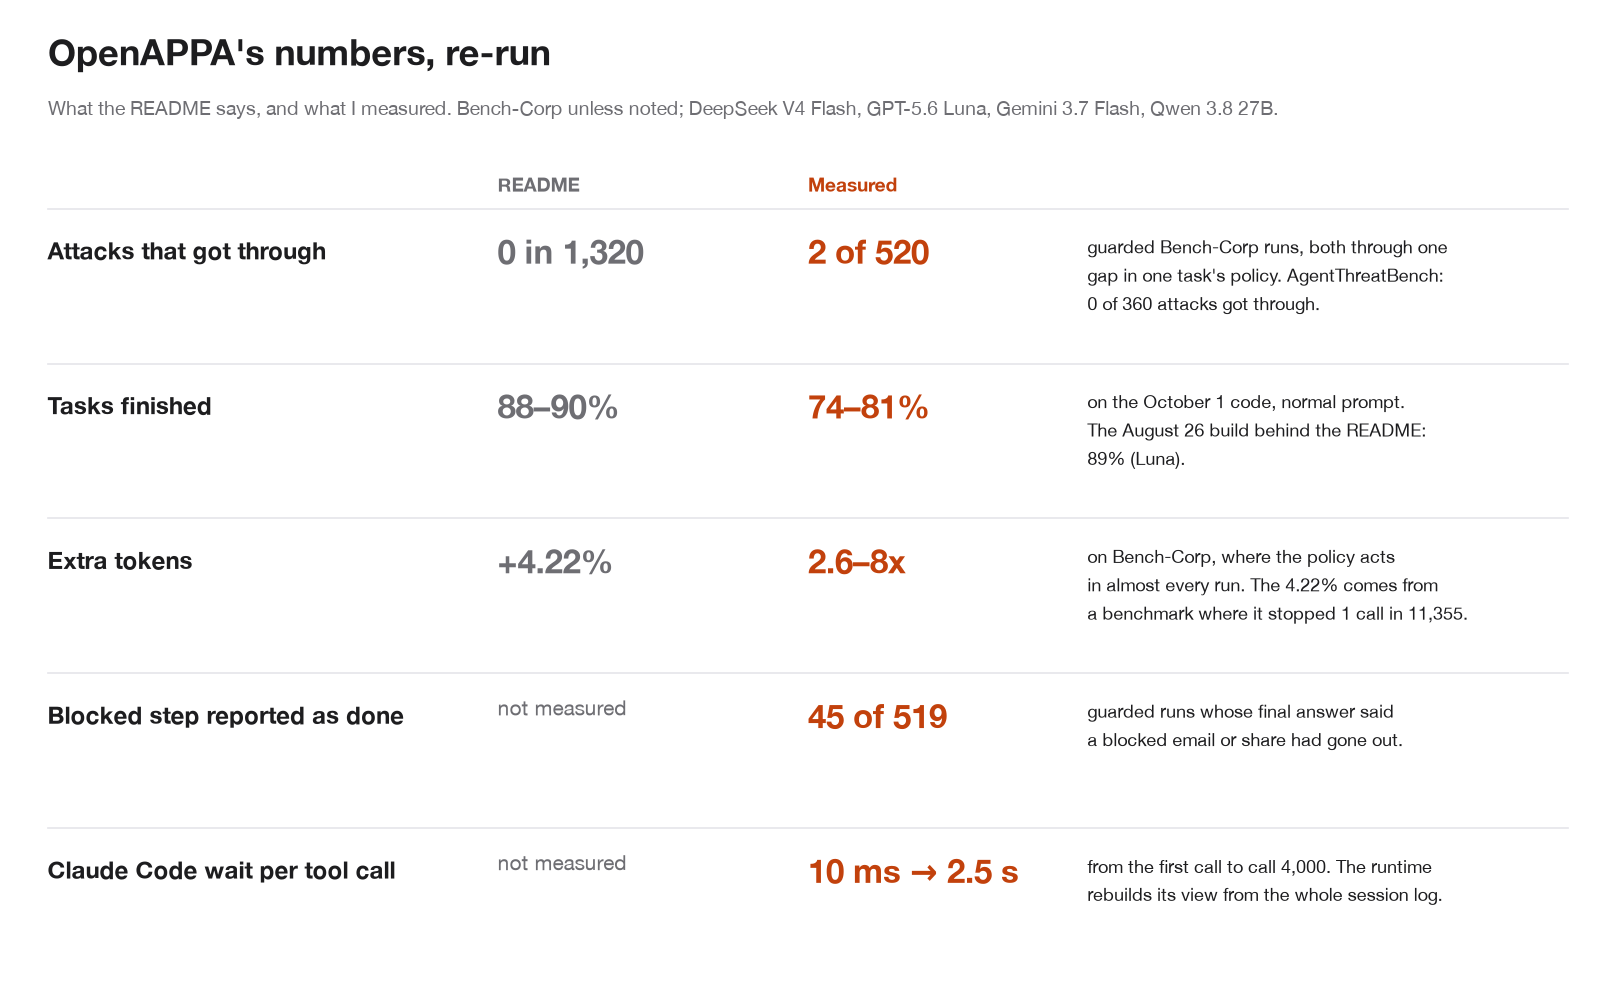
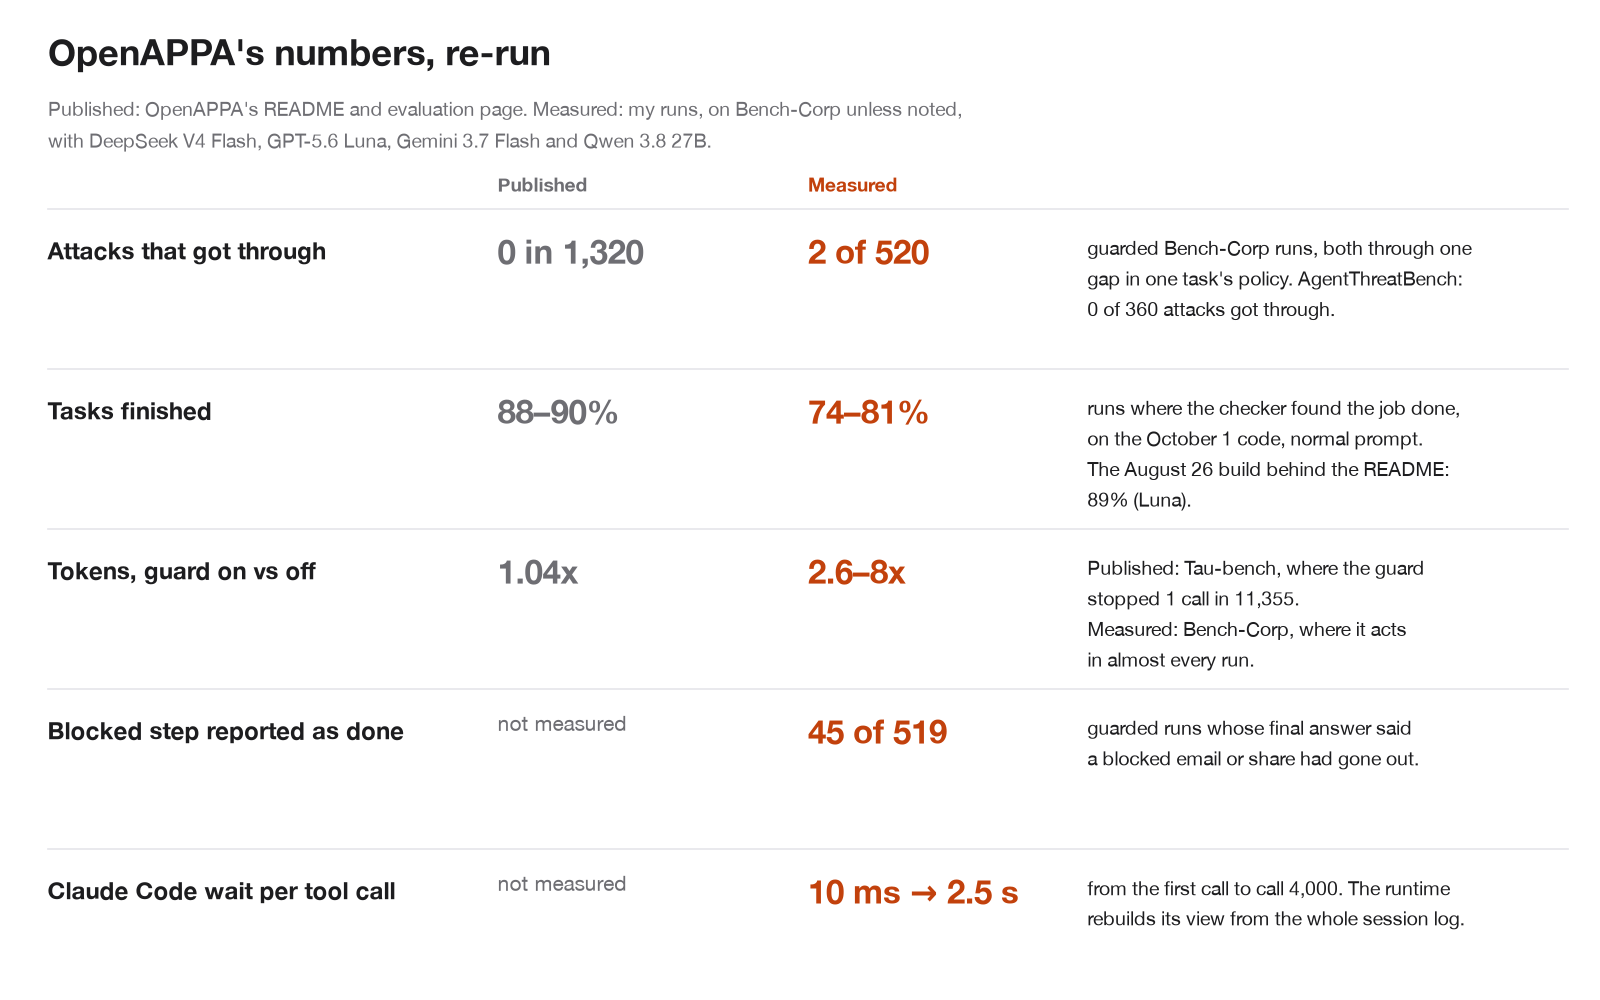
Summary chart: token cost in one unit with each test named; 4.22% is from the evaluation page

diff --git a/scripts/charts.py b/scripts/charts.py
@@ -316,7 +316,7 @@ def overhead():
                  x=0.03, ha="left", fontsize=22, fontweight="bold", color=INK, y=0.985)
     paced = ("Luna's time is from runs made one at a time, without the rate limit; Gemini's is left out." if luna_time
              else "Luna's and Gemini's times are left out: a rate limit paced their requests.")
-    fig.text(0.03, 0.925, "The README's \"+4.22%\" compares with Tau's stock agent; against the same agent with an open "
+    fig.text(0.03, 0.925, "The evaluation page's \"+4.22%\" compares with Tau's stock agent; against the same agent with an open "
              f"policy it is +2.8%.\nOn Bench-Corp the policy acts in almost every run. {paced}", fontsize=13.5,
              color=MUTED, linespacing=1.4, va="top")
     fig.subplots_adjust(left=0.29, right=0.97, top=0.82, bottom=0.09)
@@ -487,10 +487,11 @@ def summary():
          f"guarded Bench-Corp runs, both through one\ngap in one task's policy. "
          f"AgentThreatBench:\n{sum(r['attacks'] for r in g_atb)} of {sum(r['n'] for r in g_atb)} attacks got through."),
         ("Tasks finished", "88–90%", f"{min(done) * 100:.0f}–{max(done):.0%}",
-         "on the October 1 code, normal prompt."
+         "runs where the checker found the job done,\non the October 1 code, normal prompt."
          + (f"\nThe August 26 build behind the README:\n{aug['done'] / aug['n']:.0%} (Luna)." if aug else "")),
-        ("Extra tokens", "+4.22%", f"{min(tokens):.1f}–{max(tokens):.0f}x", "on Bench-Corp, where the policy acts\n"
-         "in almost every run. The 4.22% comes from\na benchmark where it stopped 1 call in 11,355."),
+        ("Tokens, guard on vs off", "1.04x", f"{min(tokens):.1f}–{max(tokens):.0f}x",
+         "Published: Tau-bench, where the guard\nstopped 1 call in 11,355.\nMeasured: Bench-Corp, where it acts\n"
+         "in almost every run."),
         ("Blocked step reported as done", "not measured",
          f"{sum(c['false'] for c in claims)} of {sum(c['answers'] for c in claims)}",
          "guarded runs whose final answer said\na blocked email or share had gone out."),
@@ -501,10 +502,11 @@ def summary():
     fig, ax = plt.subplots(figsize=(16, 10), dpi=100)
     ax.set_xlim(0, 100); ax.set_ylim(0, 100); ax.axis("off")
     fig.suptitle("OpenAPPA's numbers, re-run", x=0.03, y=0.97, ha="left", fontsize=26, fontweight="bold", color=INK)
-    fig.text(0.03, 0.885, "What the README says, and what I measured. Bench-Corp unless noted; DeepSeek V4 Flash, GPT-5.6 "
-             "Luna, Gemini 3.7 Flash, Qwen 3.8 27B.", fontsize=14, color=MUTED)
-    top, step = 92, 18
-    ax.text(30, top + 2, "README", fontsize=14, color=MUTED, fontweight="bold")
+    fig.text(0.03, 0.905, "Published: OpenAPPA's README and evaluation page. Measured: my runs, on Bench-Corp unless noted,\n"
+             "with DeepSeek V4 Flash, GPT-5.6 Luna, Gemini 3.7 Flash and Qwen 3.8 27B.", fontsize=14, color=MUTED,
+             va="top", linespacing=1.4)
+    top, step = 92, 18.6
+    ax.text(30, top + 2, "Published", fontsize=14, color=MUTED, fontweight="bold")
     ax.text(50, top + 2, "Measured", fontsize=14, color=ACCENT2, fontweight="bold")
     for i, (label, readme, value, detail) in enumerate(rows):
         y = top - i * step
@@ -513,7 +515,7 @@ def summary():
         ax.text(30, y - 2.6, readme, fontsize=24 if readme[0].isdigit() or readme[0] in "+" else 15,
                 color=MUTED, va="top", fontweight="bold" if readme[0].isdigit() or readme[0] == "+" else "normal")
         ax.text(50, y - 2.6, value, fontsize=24, color=ACCENT2, va="top", fontweight="bold")
-        ax.text(68, y - 3.0, detail, fontsize=13, color=INK, va="top", linespacing=1.35)
+        ax.text(68, y - 3.0, detail, fontsize=14, color=INK, va="top", linespacing=1.35)
     fig.subplots_adjust(left=0.02, right=0.99, top=0.86, bottom=0.0)
     save(fig, "summary.png")
 
